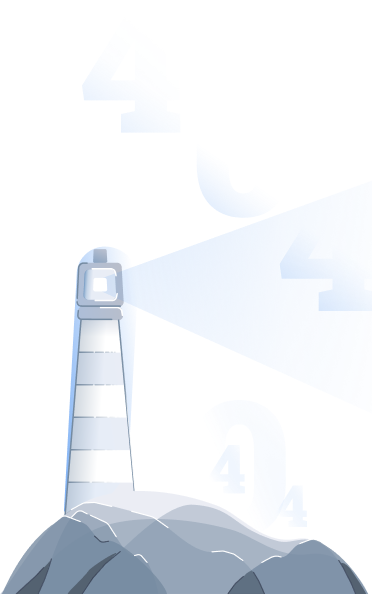
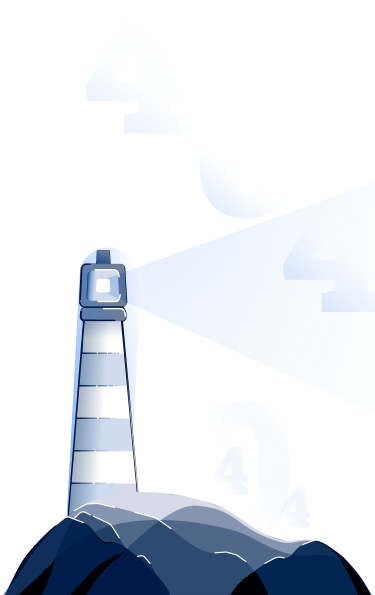
updated 404 image

Changed region(s): [[0.0, 0.3939, 1.0, 1.0]]

diff --git a/frontend/src/app/modules/mips/pages/page-not-found/page-not-found.component.scss b/frontend/src/app/modules/mips/pages/page-not-found/page-not-found.component.scss
@@ -9,12 +9,11 @@
 }
 
 .background {
-  content: url("../../../../../assets/images/404-page-not-found-dark.png");
+  content: url("../../../../../assets/images/404-page-not-found-dark-mobile.png");
   width: 100%;
   object-fit: cover;
   top: 0;
   height: 100%;
-  object-position: calc(50% - 110px);
 }
 
 img {
@@ -107,17 +106,15 @@ div {
   }
 }
 
-@media (min-width: 500px) {
-  .background {
-    object-position: center !important;
-  }
-}
-
 @media (min-width: 769px) {
   :host {
     height: fit-content;
     min-height: 75vh;
     margin: -40px 0;
+  }
+
+  .background {
+    content: url("../../../../../assets/images/404-page-not-found-dark.png");
   }
 
   img {

diff --git a/frontend/src/app/modules/mips/pages/page-not-found/page-not-found.component.html b/frontend/src/app/modules/mips/pages/page-not-found/page-not-found.component.html
@@ -10,14 +10,14 @@
 />
 <img
   *ngIf="darkModeService.getDarkMode()"
-  class="background"
+  class="background no-mobile"
   src="../../../../../assets/images/404-page-not-found-dark.png"
 />
-<!-- <img
+<img
   *ngIf="darkModeService.getDarkMode()"
-  class="background no-mobile"
+  class="background mobile"
   src="../../../../../assets/images/404-page-not-found-dark-mobile.png"
-/> -->
+/>
 <div class="center-card" [ngClass]="{'card-center-dark':darkModeService.getDarkMode()}">
   <h1>OOPS!</h1>
   <p>{{ "The Page you requested could not be found" }}</p>
